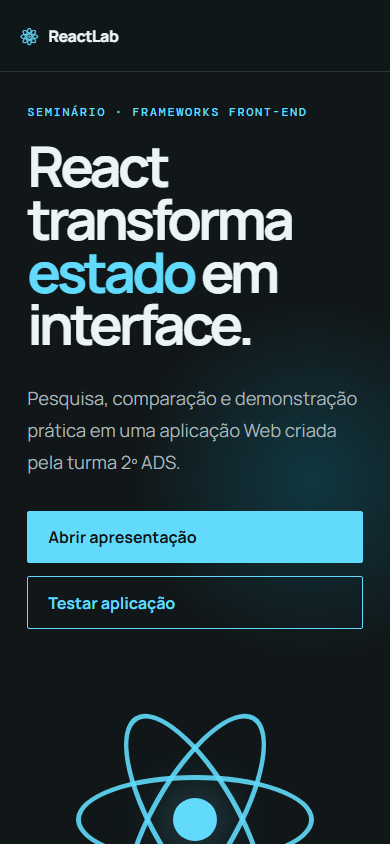
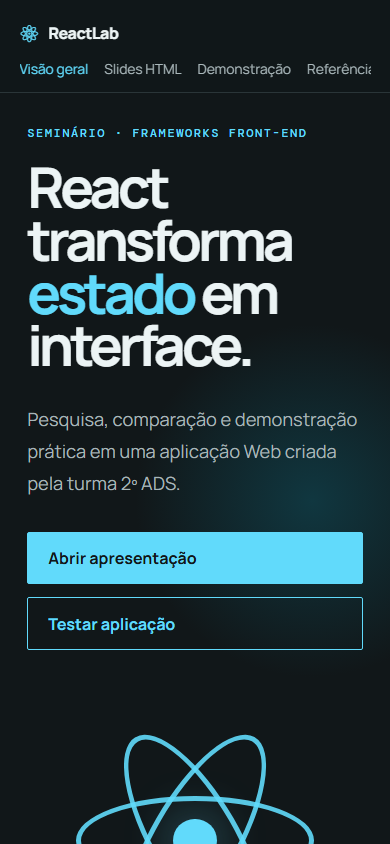
fix: mantém navegação acessível no mobile

diff --git a/src/styles.css b/src/styles.css
@@ -130,5 +130,5 @@ footer p { margin:0; }
 .reference-list a:hover strong { color:#10798e; }
 .reference-list span { font:500 .7rem DM Mono,monospace; color:#10798e; }
 .reference-list small { display:block; color:#738082; margin-top:.25rem; overflow-wrap:anywhere; }
-@media (max-width:800px){nav{display:none}.hero{grid-template-columns:1fr;min-height:auto}.hero .react-orbit{width:65vw;margin:4rem auto 0}.metric-row,.team-list,.route-map{grid-template-columns:1fr 1fr}.timeline-web{grid-template-columns:repeat(3,1fr);gap:2rem 0}.topic-grid{grid-template-columns:1fr 1fr}.split,.demo-page,.security-web,.essentials-grid{grid-template-columns:1fr}.security-web>div:first-child{width:150px}.web-slide{aspect-ratio:auto;min-height:70vh;padding:1.5rem}.slide-body{grid-template-columns:1fr}.slide-visual,.web-slide .react-orbit{display:none}.slide-copy ul{grid-template-columns:1fr}.slide-copy h1{font-size:2.6rem}footer{flex-direction:column}.section{padding:5rem 6vw}}
+@media (max-width:800px){.topbar{height:auto;min-height:72px;flex-wrap:wrap;padding-top:1rem;padding-bottom:.75rem}.topbar nav{display:flex;width:100%;gap:1rem;overflow-x:auto;padding:.65rem 0 .1rem;white-space:nowrap}.hero{grid-template-columns:1fr;min-height:auto}.hero .react-orbit{width:65vw;margin:4rem auto 0}.metric-row,.team-list,.route-map{grid-template-columns:1fr 1fr}.timeline-web{grid-template-columns:repeat(3,1fr);gap:2rem 0}.topic-grid{grid-template-columns:1fr 1fr}.split,.demo-page,.security-web,.essentials-grid{grid-template-columns:1fr}.security-web>div:first-child{width:150px}.web-slide{aspect-ratio:auto;min-height:70vh;padding:1.5rem}.slide-body{grid-template-columns:1fr}.slide-visual,.web-slide .react-orbit{display:none}.slide-copy ul{grid-template-columns:1fr}.slide-copy h1{font-size:2.6rem}footer{flex-direction:column}.section{padding:5rem 6vw}}
 @media (max-width:480px){.metric-row,.team-list,.route-map,.topic-grid{grid-template-columns:1fr}.actions{flex-direction:column}.hero h1{font-size:3.5rem}.task-app{box-shadow:8px 8px 0 #61dafb}.demo-page{padding:4rem 6vw}}
